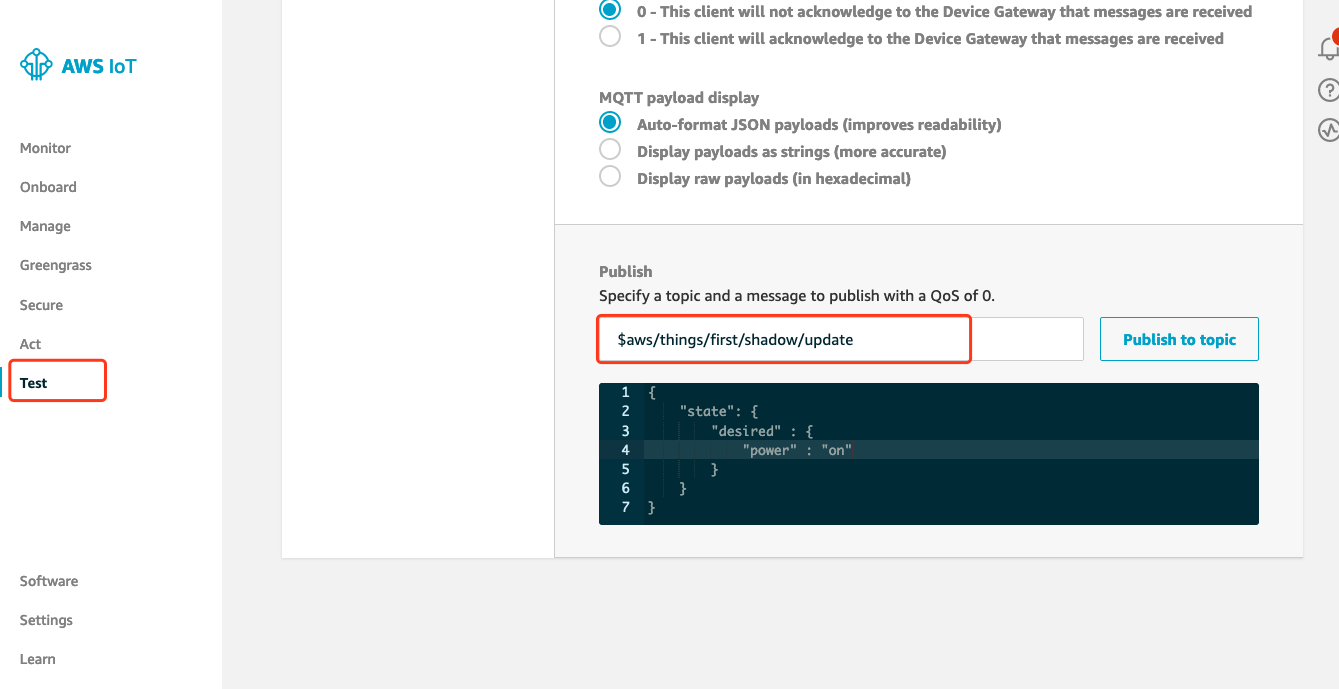
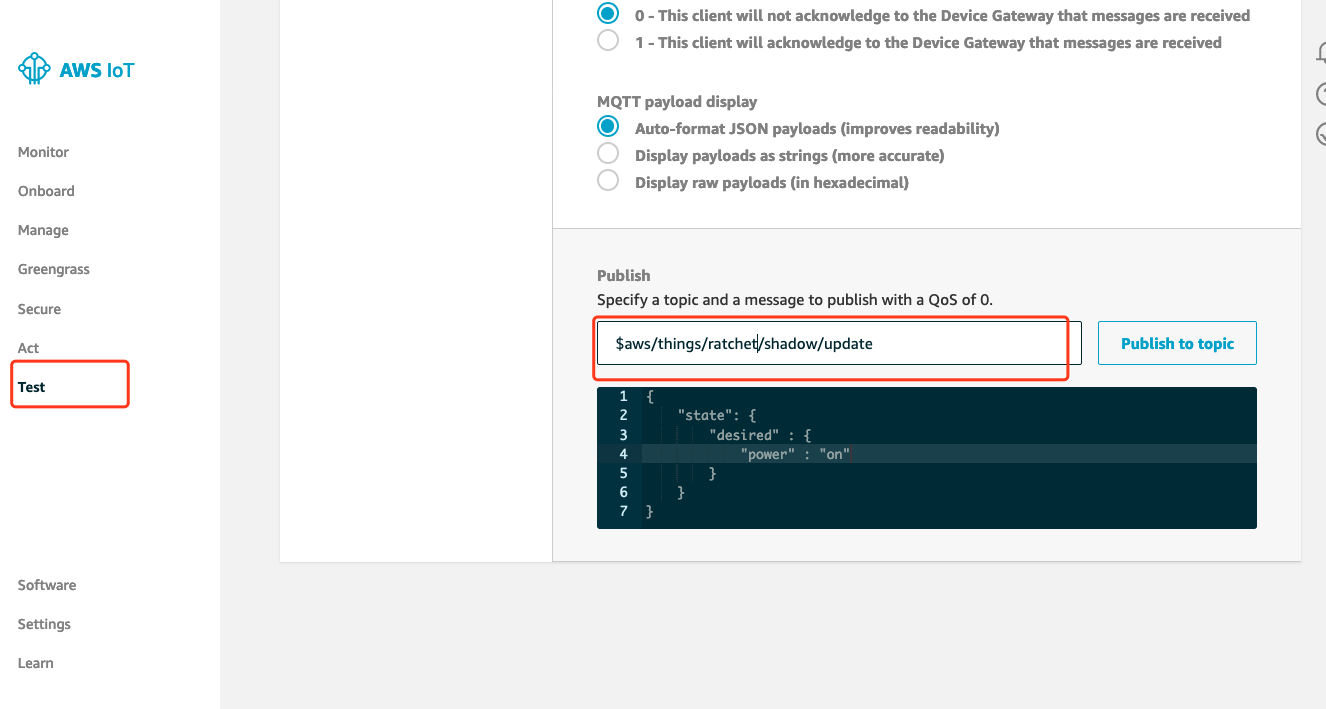
add shadow

diff --git a/shadow.py b/shadow.py
@@ -13,7 +13,7 @@ import qrcode
 
 
 #revise your thingName
-thingName ="first"
+thingName ="ratchet"
 clientId="myShadowClient"
 
 # Shadow JSON schema example
